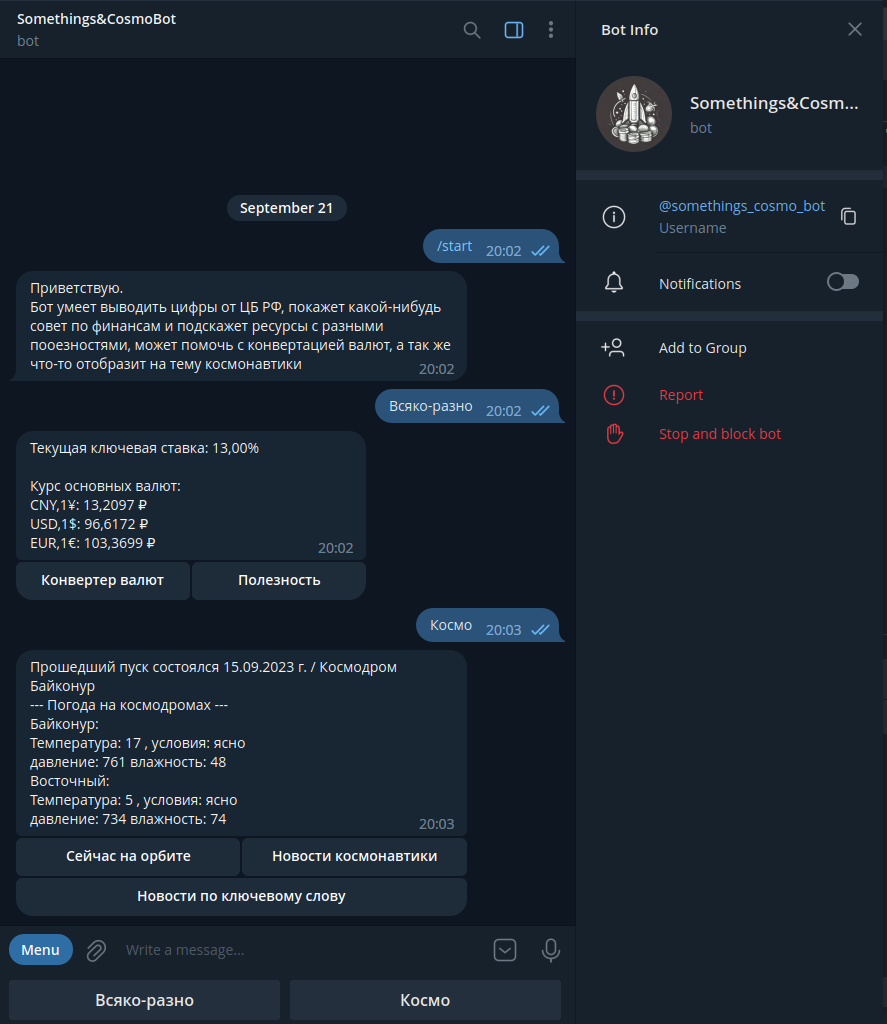
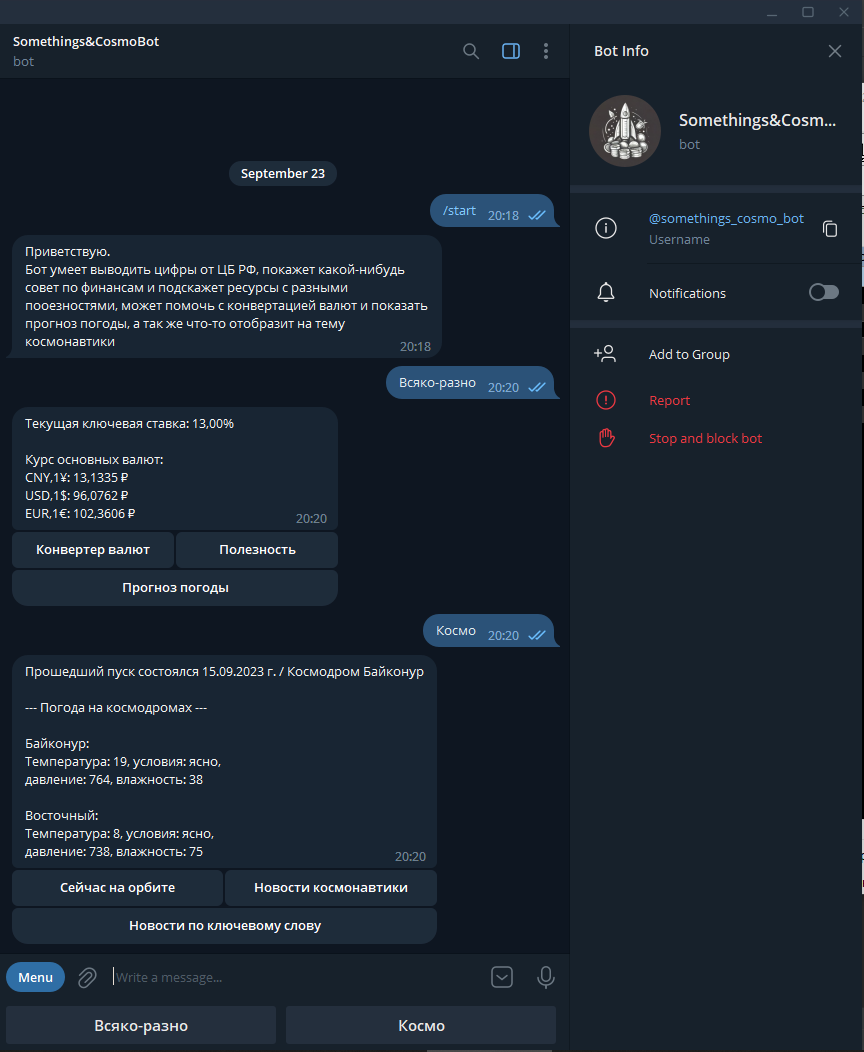
some improvements

diff --git a/func.py b/func.py
@@ -5,8 +5,6 @@ from constant import yandex_maps_token
 import json
 import pandas as pd
 import random
-import yandex_geocoder
-
 
 headers = {
     'Accept': 'image/avif,image/webp,image/apng,image/svg+xml,image/*,*/*;q=0.8',
@@ -41,15 +39,16 @@ def fin_info():
 {exchange_rates_m3[0].get_text(strip=True)}: {exchange_rates_m3[1].get_text(strip=True)}
 """
 
+
 def space_news():
     ''' Выводит сводку новостей с первой страницы сайта Новости космонавтики, раздел Новости '''
-    
+
     url_space_news = 'https://novosti-kosmonavtiki.ru/news/'
     req_space_news = requests.get(url_space_news, headers).text
     soup = BeautifulSoup(req_space_news, 'html.parser')
     news_cards = soup.findAll('article')
     news = []
-    
+
     for card in news_cards:
         card_date = card.find('span', class_="entry-date").get_text()
         card_title = card.find('h2', class_="post-title").get_text()
@@ -65,7 +64,7 @@ def space_news2(key_word):
 
     url_space_news = 'https://novosti-kosmonavtiki.ru/news/'
     news = ''
-    
+
     for page in range(1, 6):
         url = url_space_news + f'page/{page}'
         # print(url) # check
@@ -80,19 +79,21 @@ def space_news2(key_word):
                 art_link = art.find('a', class_="read-more").get("href")
                 # print(f'{art_date} / {art_title} \n{art_link}') # check
                 news += f'{art_date} / {art_title} \n{art_link}\n'
-    
+
     return news
+
 
 def space_news_all():
     ''' Получает все новости с сайта Новости космонавтики '''
-    
+
     url_space_news = 'https://novosti-kosmonavtiki.ru/news/'
     req_space_news = requests.get(url_space_news, headers).text
     soup = BeautifulSoup(req_space_news, 'html.parser')
     page_numbers = soup.findAll('a', class_='page-numbers')
     last_page = page_numbers[-2].get_text()
-    news = ''
-    for page in range(1, last_page+1):
+    # news = ''
+    news = []
+    for page in range(1, last_page + 1):
         url = url_space_news + f'page/{page}'
         # print(url) # check
         req = requests.get(url).text
@@ -102,8 +103,10 @@ def space_news_all():
             art_title = art.find('h2', class_="post-title").get_text()
             art_date = art.find('span', class_="entry-date").get_text()
             art_link = art.find('a', class_="read-more").get("href")
-            news += f'{art_date} / {art_title} \n{art_link}\n'
+            # news += f'{art_date} / {art_title} \n{art_link}\n'
+            news.append(f'{art_date} / {art_title} \n{art_link}\n')
     return news
+
 
 def in_orbit():
     """ Выводит количество человек на орбите на сегодняшний день и их имена """
@@ -155,40 +158,27 @@ def weather(name):
     yandex_json['fact']['condition'] = conditions[yandex_json['fact']['condition']]
     return f"Температура: {yandex_json['fact']['temp']}, условия: {yandex_json['fact']['condition']}, \nдавление: {yandex_json['fact']['pressure_mm']}, влажность: {yandex_json['fact']['humidity']}"
 
+
 def fin_advice():
     ''' Выводит рандомный совет по фининсам из файла fin_advice.cvs '''
     df = pd.read_csv('fin_advice.cvs', sep=';')
-    r = random.randint(0,len(df)-1)
+    r = random.randint(0, len(df) - 1)
     adv = str(df['advice'][r])
     descr = str(df['descr'][r])
     return f'{adv}\n{descr}'
 
 
 def search_loc(loc_name):
-    client = yandex_geocoder.Client(yandex_maps_token)
-    # https://geocode-maps.yandex.ru/1.x?apikey=f85c9bb5-92f9-448a-a438-c141ca1b2d6f&geocode=%D0%9C%D0%BE%D1%81%D0%BA%D0%B2%D0%B0&=ru_Ru&format=json
-    # coordinates = client.coordinates(loc_name)
-
     query = f'https://geocode-maps.yandex.ru/1.x?apikey={yandex_maps_token}&geocode={loc_name}&lang=ru_Ru&format=json'
     yandex_resp = requests.get(query)
     yandex_json = json.loads(yandex_resp.text)
-    # ветка ['GeoObjectCollection']['featureMember']['Point']['pos']
     list_geoobjects = yandex_json['response']['GeoObjectCollection']['featureMember']
     locations = []
     for i in list_geoobjects:
-        if i['GeoObject']['metaDataProperty']['GeocoderMetaData']['kind'] == 'locality' or i['GeoObject']['metaDataProperty']['GeocoderMetaData']['kind'] == 'province':
+        if i['GeoObject']['metaDataProperty']['GeocoderMetaData']['kind'] == 'locality' or \
+                i['GeoObject']['metaDataProperty']['GeocoderMetaData']['kind'] == 'province':
             locations.append(i)
     return locations
-    # point = json
-    # if len(locations) == 1:
-    #     return locations[0]['GeoObject']['Point']['pos']
-    #     # point = locations[0]
-    # if len(locations) > 1:
-    #     # print(locations)
-    #     for l in range(len(locations)):
-    #         print(f"{l} - {locations[l]['GeoObject']['metaDataProperty']['GeocoderMetaData']['Address']['formatted']}")
-    #     num = int(input('Выберите номер локации '))
-    #     return locations[num]['GeoObject']['Point']['pos']
 
 
 def get_weather_coord(lon, lat):
@@ -210,5 +200,3 @@ def get_weather_coord(lon, lat):
         night_cond = part_night['condition']
         output += f'\nНа {date} (день/ночь): температура {day_temp}/{night_temp} скорость ветра {day_wind}/{night_wind} условия {day_cond}/{night_cond}\n'
     return output
-
-# print(get_weather_coord(30.31449318, 59.93867493))

diff --git a/main.py b/main.py
@@ -27,7 +27,7 @@ def main(message):
     bot.send_message(message.chat.id, 'Приветствую.\n'
                                       'Бот умеет выводить цифры от ЦБ РФ, '
                                       'покажет какой-нибудь совет по финансам и подскажет ресурсы с разными пооезностями, '
-                                      'может помочь с конвертацией валют, '
+                                      'может помочь с конвертацией валют и показать прогноз погоды, '
                                       'а так же что-то отобразит на тему космонавтики', reply_markup=reply_markup)
 
 
@@ -162,7 +162,7 @@ def take_currency(message):
 
 
 def get_weather(message):
-    ''' Получаем координаты и погоду '''
+    ''' Получает координаты и погоду (если найден только один пункт с таким названием) '''
 
     name = message.text
     global locations, lon, lat
@@ -184,6 +184,7 @@ def get_weather(message):
 
 
 def choose_location(message):
+    ''' Принимает номер выбранной локации и выводит погоду '''
     global locations, lon, lat
     num = int(message.text)
     lon, lat = locations[num]['GeoObject']['Point']['pos'].split()

diff --git a/constant.py b/constant.py
@@ -1,0 +1,5 @@
+telegram_token = ''
+
+yandex_weather_token = ''
+
+yandex_maps_token = ''

diff --git a/README.md b/README.md
@@ -6,7 +6,7 @@
 - выводить случайный совет из подборки в приложенном CVS-фале
 - конвертировать валюты
 - выводить сведения о погоде на космодромах с Яндекс.Погоды
-- показывать погоду с Яндекс.Погода по запросу пользователя (получает координаты с Яндекс.Карт)
+- показывать погоду с Яндекс.Погоды по запросу пользователя (получает координаты с Яндекс.Карт)
 
 ### Использует дополнительные библиотеки: 
 - telebot
@@ -15,7 +15,6 @@
 - BeautifulSoup
 - pandas
 - json
-- yandex_geocoder
 
 Для работы в файле `constant.py` прописываются токены: _telegram_token_, _yandex_weather_token_ и _yandex_maps_token_
 
